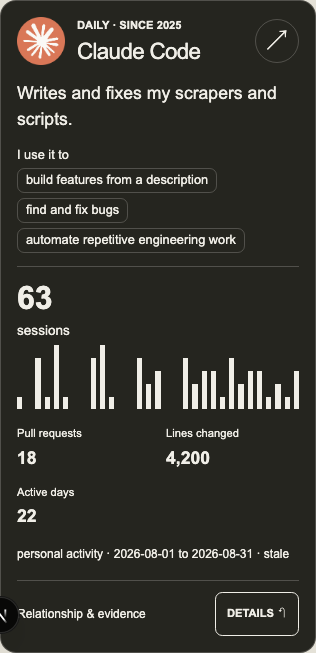
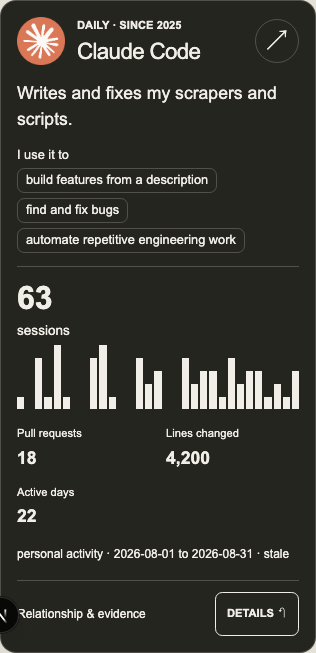
fix: keep a card's bars inside its width, at most a month of them
Each bar kept at least 4px plus a 4px gap, so a long series pushed past
the card. At 320px Claude Code's 31 coding days overflowed their chart
by 32px, and a 90-day series overflowed by 462px and scrolled the page
sideways by 429px (392 and 359 at 390px).

Bars now share the chart's width with no minimum, and the gap narrows
from 4px to 2px past 16 bars. A series longer than a month (31 points)
is split into 31 runs of consecutive points, each drawn as its points'
average, on both faces. An average keeps each bar in its points' own
unit (a day, a week, one observation), so a run with one point fewer
than its neighbours never reads as a drop, and a series of levels is
not inflated. A shared bar's title names its dates and says it is an
average.

Claude Code's card is refreshed at 1440 and 390px: its 31 bars keep
their heights with narrower gaps.

diff --git a/tests/e2e/usage-chart-skeleton.spec.ts b/tests/e2e/usage-chart-skeleton.spec.ts
@@ -32,13 +32,32 @@ const card: PublicProfile["cards"][number] = {
   },
 };
 
-const compiled = buildSync({
+const QUARTER_DAYS = 90;
+const MAX_BARS = 31;
+const DAY_MS = 86_400_000;
+const QUARTER_START = "2026-07-03";
+const NARROWEST_WIDTH = 320;
+const PHONE_WIDTH = 390;
+const PHONE_WIDTHS = [NARROWEST_WIDTH, PHONE_WIDTH];
+const PHONE_HEIGHT = 900;
+// A 90-day snapshot, as a connected account can return: more points than a phone-width card has room for at 4px each.
+const quarter: PublicProfile["cards"][number] = {
+  ...card,
+  activity: {
+    ...card.activity!,
+    kind: "timeSeries", label: "Sessions", unit: "sessions",
+    points: Array.from({ length: QUARTER_DAYS }, (_, index) => ({ date: new Date(Date.parse(QUARTER_START) + index * DAY_MS).toISOString().split("T")[0], value: points[index % points.length].value })),
+    period: { start: QUARTER_START, end: "2026-09-30" },
+  },
+};
+
+const bundle = (fixture: PublicProfile["cards"][number]) => buildSync({
   stdin: {
     contents: `import { createElement } from "react";
       import { createRoot } from "react-dom/client";
       import { ProductCard } from "./components/product-card";
       import { ProductCardSkeleton } from "./components/product-card-skeleton";
-      const card = ${JSON.stringify(card)};
+      const card = ${JSON.stringify(fixture)};
       createRoot(document.getElementById("root")).render(createElement("div", { className: "stack" },
         createElement("p", { className: "before-copy" }, "Previously: Loading your private collection…"),
         createElement(ProductCardSkeleton, { label: "Loading your private collection…", log: "COLLECTION · LOADING", count: 2 }),
@@ -55,11 +74,12 @@ const compiled = buildSync({
   jsx: "automatic",
   define: { "process.env.NODE_ENV": '"production"' },
 });
+const compiled = bundle(card);
 
-async function mount(page: import("@playwright/test").Page, theme: "light" | "dark") {
+async function mount(page: import("@playwright/test").Page, theme: "light" | "dark", script = compiled) {
   await page.setContent(`<!doctype html><html lang="en" data-theme="${theme}"><head><title>Usage chart fixture</title></head><body><main><h1>Usage chart fixture</h1><div id="root"></div></main></body></html>`);
   await page.addStyleTag({ content: readFileSync("app/globals.css", "utf8") });
-  await page.addScriptTag({ content: compiled.outputFiles[0].text });
+  await page.addScriptTag({ content: script.outputFiles[0].text });
 }
 
 for (const theme of ["light", "dark"] as const) {
@@ -118,3 +138,20 @@ test("reduced motion swaps the blueprint for bars without a grow animation", asy
   await expect(bars.first()).toHaveCSS("animation-name", "none");
   await expect(card.locator(".usage-chart-blueprint")).toHaveCount(0);
 });
+
+PHONE_WIDTHS.forEach(width => test(`a 90-day series fits a ${width}px card as ${MAX_BARS} bars on both faces`, async ({ page }) => {
+  await page.setViewportSize({ width, height: PHONE_HEIGHT });
+  await page.emulateMedia({ reducedMotion: "reduce" });
+  await mount(page, "dark", bundle(quarter));
+  const card = page.locator(".product-card").first();
+  const fits = (face: string) => card.locator(`${face} .activity-bars`).evaluate(chart => ({
+    overflow: chart.scrollWidth - chart.clientWidth,
+    lastBarPastEdge: Math.max(0, Math.round(chart.lastElementChild!.getBoundingClientRect().right - chart.getBoundingClientRect().right)),
+  }));
+  await expect(card.locator(".card-front .activity-bars > span")).toHaveCount(MAX_BARS);
+  expect(await fits(".card-front")).toEqual({ overflow: 0, lastBarPastEdge: 0 });
+  await card.getByRole("button", { name: "Details", exact: true }).click();
+  await expect(card.locator(".card-back .activity-bars > span")).toHaveCount(MAX_BARS);
+  expect(await fits(".card-back")).toEqual({ overflow: 0, lastBarPastEdge: 0 });
+  expect(await page.evaluate(() => document.documentElement.scrollWidth <= innerWidth)).toBe(true);
+}));

diff --git a/src/domain/chart-bars.test.ts b/src/domain/chart-bars.test.ts
@@ -1,0 +1,60 @@
+import { expect, test } from "vitest";
+import { chartBars, MAX_CHART_BARS, type ChartBar } from "./chart-bars";
+
+const DAY_MS = 86_400_000;
+const FIRST_DAY = Date.parse("2026-07-01");
+const MONTH_OF_DAYS = 31;
+const QUARTER_OF_DAYS = 90;
+const THREE_BARS = 3;
+
+/** Daily points from 2026-07-01, read from a space-separated list of values. */
+const days = (values: string) => values.split(" ").map(Number).map((value, index) => ({
+  date: new Date(FIRST_DAY + index * DAY_MS).toISOString().split("T")[0],
+  value,
+}));
+const counting = (length: number) => days(Array.from({ length }, (_, index) => index).join(" "));
+/** Each bar as "first day..last day = value (points)". */
+const shown = (bars: readonly ChartBar[]) => bars.map(bar => `${bar.start}..${bar.end} = ${bar.value} (${bar.points})`);
+
+test("a series no longer than the limit keeps one bar per point", () => {
+  expect(shown(chartBars(days("3 0 5")))).toEqual([
+    "2026-07-01..2026-07-01 = 3 (1)",
+    "2026-07-02..2026-07-02 = 0 (1)",
+    "2026-07-03..2026-07-03 = 5 (1)",
+  ]);
+  expect(chartBars(counting(MONTH_OF_DAYS))).toHaveLength(MONTH_OF_DAYS);
+});
+
+test("a month of days is the most a chart draws", () => {
+  expect(MAX_CHART_BARS).toBe(MONTH_OF_DAYS);
+});
+
+test("a longer series shares bars between consecutive points, each bar their average", () => {
+  expect(shown(chartBars(days("1 3 5 7 2 4"), THREE_BARS))).toEqual([
+    "2026-07-01..2026-07-02 = 2 (2)",
+    "2026-07-03..2026-07-04 = 6 (2)",
+    "2026-07-05..2026-07-06 = 3 (2)",
+  ]);
+});
+
+test("an uneven split still covers every point once and in order, and a fuller bar never reads as a rise", () => {
+  expect(shown(chartBars(days("4 4 4 4 4 4 4"), THREE_BARS))).toEqual([
+    "2026-07-01..2026-07-02 = 4 (2)",
+    "2026-07-03..2026-07-04 = 4 (2)",
+    "2026-07-05..2026-07-07 = 4 (3)",
+  ]);
+});
+
+test("a 90-day snapshot becomes 31 bars that cover every day and end on its last", () => {
+  const bars = chartBars(counting(QUARTER_OF_DAYS));
+  expect(bars).toHaveLength(MONTH_OF_DAYS);
+  expect(bars.reduce((total, bar) => total + bar.points, 0)).toBe(QUARTER_OF_DAYS);
+  expect(shown([bars[0], bars.at(-1)!])).toEqual([
+    "2026-07-01..2026-07-02 = 0.5 (2)",
+    "2026-09-26..2026-09-28 = 88 (3)",
+  ]);
+});
+
+test("no points draw no bars", () => {
+  expect(chartBars([])).toEqual([]);
+});

diff --git a/components/usage-chart.tsx b/components/usage-chart.tsx
@@ -1,6 +1,7 @@
 "use client";
 
 import { useEffect, useRef, useState, type CSSProperties, type ReactNode } from "react";
+import { chartBars } from "@/src/domain/chart-bars";
 
 export type UsageChartPoint = {
   date: string;
@@ -15,6 +16,11 @@ export type UsagePeriod = {
 
 const SKELETON_BAR_COUNT = 30;
 const BAR_STAGGER_MS = 18;
+/** Past this many bars the gaps narrow, so the bars keep most of the width. */
+const SPACIOUS_BAR_COUNT = 16;
+const SPACIOUS_GAP = "4px";
+const DENSE_GAP = "2px";
+const PERCENT = 100;
 
 export function coverageDays(period: UsagePeriod): number | undefined {
   const start = Date.parse(`${period.start}T00:00:00Z`);
@@ -124,9 +130,8 @@ export function UsageChart({
     return () => cancelAnimationFrame(frame);
   }, [resolved]);
 
-  const maximum = resolved && points
-    ? Math.max(...points.map((point) => point.value), 1)
-    : 1;
+  const bars = resolved && points ? chartBars(points) : [];
+  const maximum = Math.max(...bars.map((bar) => bar.value), 1);
   return (
     <div
       ref={ref}
@@ -137,15 +142,18 @@ export function UsageChart({
     >
       {showBlueprint && framed && <BlueprintDimensions size={size} />}
       {resolved && points ? (
-        <div className="activity-bars" role={label ? "img" : undefined} aria-label={label ? `${label} trend` : undefined}>
-          {points.map((point, index) => (
+        <div className="activity-bars" role={label ? "img" : undefined} aria-label={label ? `${label} trend` : undefined}
+          style={{ "--bar-gap": bars.length > SPACIOUS_BAR_COUNT ? DENSE_GAP : SPACIOUS_GAP } as CSSProperties}>
+          {bars.map((bar, index) => (
             <span
-              key={point.date}
+              key={bar.start}
               style={{
-                "--bar-height": `${Math.max(0, (point.value / maximum) * 100)}%`,
+                "--bar-height": `${Math.max(0, (bar.value / maximum) * PERCENT)}%`,
                 "--bar-delay": `${index * BAR_STAGGER_MS}ms`,
               } as CSSProperties}
-              title={`${point.date}: ${point.value}${unit ? ` ${unit}` : ""}`}
+              title={bar.points === 1
+                ? `${bar.start}: ${bar.value}${unit ? ` ${unit}` : ""}`
+                : `${bar.start} to ${bar.end}: ${Number(bar.value.toFixed(1))}${unit ? ` ${unit}` : ""} on average`}
             />
           ))}
         </div>

diff --git a/tests/e2e/usage-examples.spec.ts b/tests/e2e/usage-examples.spec.ts
@@ -88,6 +88,8 @@ const BRANDED = [
   { name: "Clay", slug: "clay", background: "rgb(255, 255, 255)", bars: undefined, logo: "app-icon" },
 ] as const;
 const WEEKS = 12;
+const CODING_DAYS = 31;
+const NARROWEST_WIDTH = 320;
 
 [DESKTOP_WIDTH, PHONE_WIDTH].forEach(width => test(`branded example cards wear their brand, say what they're used for and show a sample chart or metrics at ${width}px`, async ({ page }) => {
   await page.setViewportSize({ width, height: VIEWPORT_HEIGHT });
@@ -271,3 +273,18 @@ test("a hidden example asks for no brand font or logo until it is shown or next"
     "/api/brand-images/0a17c0a1-46e0-4640-af37-2f633a3dedce.svg",
   ]);
 });
+
+[NARROWEST_WIDTH, PHONE_WIDTH].forEach(width => test(`Claude Code's ${CODING_DAYS} coding days fit its card at ${width}px`, async ({ page }) => {
+  await page.setViewportSize({ width, height: VIEWPORT_HEIGHT });
+  await page.emulateMedia({ reducedMotion: "reduce" });
+  await page.goto("/");
+  const carousel = page.getByRole("region", { name: "Product usage examples" });
+  await carousel.getByRole("button", { name: "Claude Code", exact: true }).click();
+  const chart = carousel.getByRole("article", { name: "Claude Code card" }).locator(".card-front .activity-bars");
+  await expect(chart.locator("> span")).toHaveCount(CODING_DAYS);
+  expect(await chart.evaluate(element => ({
+    overflow: element.scrollWidth - element.clientWidth,
+    lastBarPastEdge: Math.max(0, Math.round(element.lastElementChild!.getBoundingClientRect().right - element.getBoundingClientRect().right)),
+  }))).toEqual({ overflow: 0, lastBarPastEdge: 0 });
+  expect(await page.evaluate(() => document.documentElement.scrollWidth <= innerWidth)).toBe(true);
+}));

diff --git a/src/client/usage-chart.test.ts b/src/client/usage-chart.test.ts
@@ -59,6 +59,24 @@ test("supplied points stay on the resolved chart and keep their titles", () => {
   expect($(".activity-bars > span").attr("style")).toMatch(/--bar-height:\s*100%/);
 });
 
+const MONTH_OF_BARS = 31;
+const TWO_MONTHS_OF_DAYS = 62;
+const DAY_MS = 86_400_000;
+const QUIET_DAY = 3;
+const BUSY_DAY = 6;
+
+test("a series longer than a month draws a month of bars, each titled with its days' average, and narrows the gaps", () => {
+  const points = Array.from({ length: TWO_MONTHS_OF_DAYS }, (_, index) => ({
+    date: new Date(Date.parse("2026-07-01") + index * DAY_MS).toISOString().split("T")[0],
+    value: [QUIET_DAY, BUSY_DAY][index % [QUIET_DAY, BUSY_DAY].length],
+  }));
+  const $ = load(renderToStaticMarkup(createElement(UsageChart, { label: "Sessions", unit: "sessions", points })));
+
+  expect($(".activity-bars > span")).toHaveLength(MONTH_OF_BARS);
+  expect($(".activity-bars > span").first().attr("title")).toBe("2026-07-01 to 2026-07-02: 4.5 sessions on average");
+  expect($(".activity-bars").attr("style")).toBe("--bar-gap:2px");
+});
+
 test("a loading chart does not inject placeholder metric values", () => {
   const $ = load(renderToStaticMarkup(createElement(UsageChart, {
     loading: true,

diff --git a/src/domain/chart-bars.ts b/src/domain/chart-bars.ts
@@ -1,0 +1,20 @@
+export type ChartPoint = Readonly<{ date: string; value: number }>;
+/** One drawn bar: the points from start to end, and their average. */
+export type ChartBar = Readonly<{ start: string; end: string; value: number; points: number }>;
+
+/** A month of days, one bar each, is the most a card's chart draws. */
+export const MAX_CHART_BARS = 31;
+
+/**
+ * The bars for a series, never more than maxBars. A longer series splits into that many runs of consecutive points,
+ * each drawn as its points' average: a bar keeps the unit of a single point (a day, a week, one observation),
+ * so a run holding one point fewer than its neighbours never reads as a drop.
+ */
+export function chartBars(points: readonly ChartPoint[], maxBars = MAX_CHART_BARS): ChartBar[] {
+  const count = Math.min(points.length, maxBars);
+  return Array.from({ length: count }, (_, bar) => {
+    const run = points.slice(Math.floor((bar * points.length) / count), Math.floor(((bar + 1) * points.length) / count));
+    const total = run.reduce((sum, point) => sum + point.value, 0);
+    return { start: run[0].date, end: run[run.length - 1].date, value: total / run.length, points: run.length };
+  });
+}

diff --git a/app/globals.css b/app/globals.css
@@ -553,18 +553,19 @@ main {
   text-transform: uppercase;
 }
 
+/* The bars share the chart's width, however many there are: the chart draws at most a month of bars and narrows its gaps past 16. */
 .activity-bars {
   align-items: end;
   display: flex;
-  gap: 4px;
+  gap: var(--bar-gap, 4px);
   height: 4rem;
   margin: 0;
 }
 
 .activity-bars span {
   background: var(--brand-card-chart, var(--brand-card-accent, currentColor));
-  flex: 1;
-  min-width: 4px;
+  flex: 1 1 0;
+  min-width: 0;
 }
 
 .visually-hidden {
